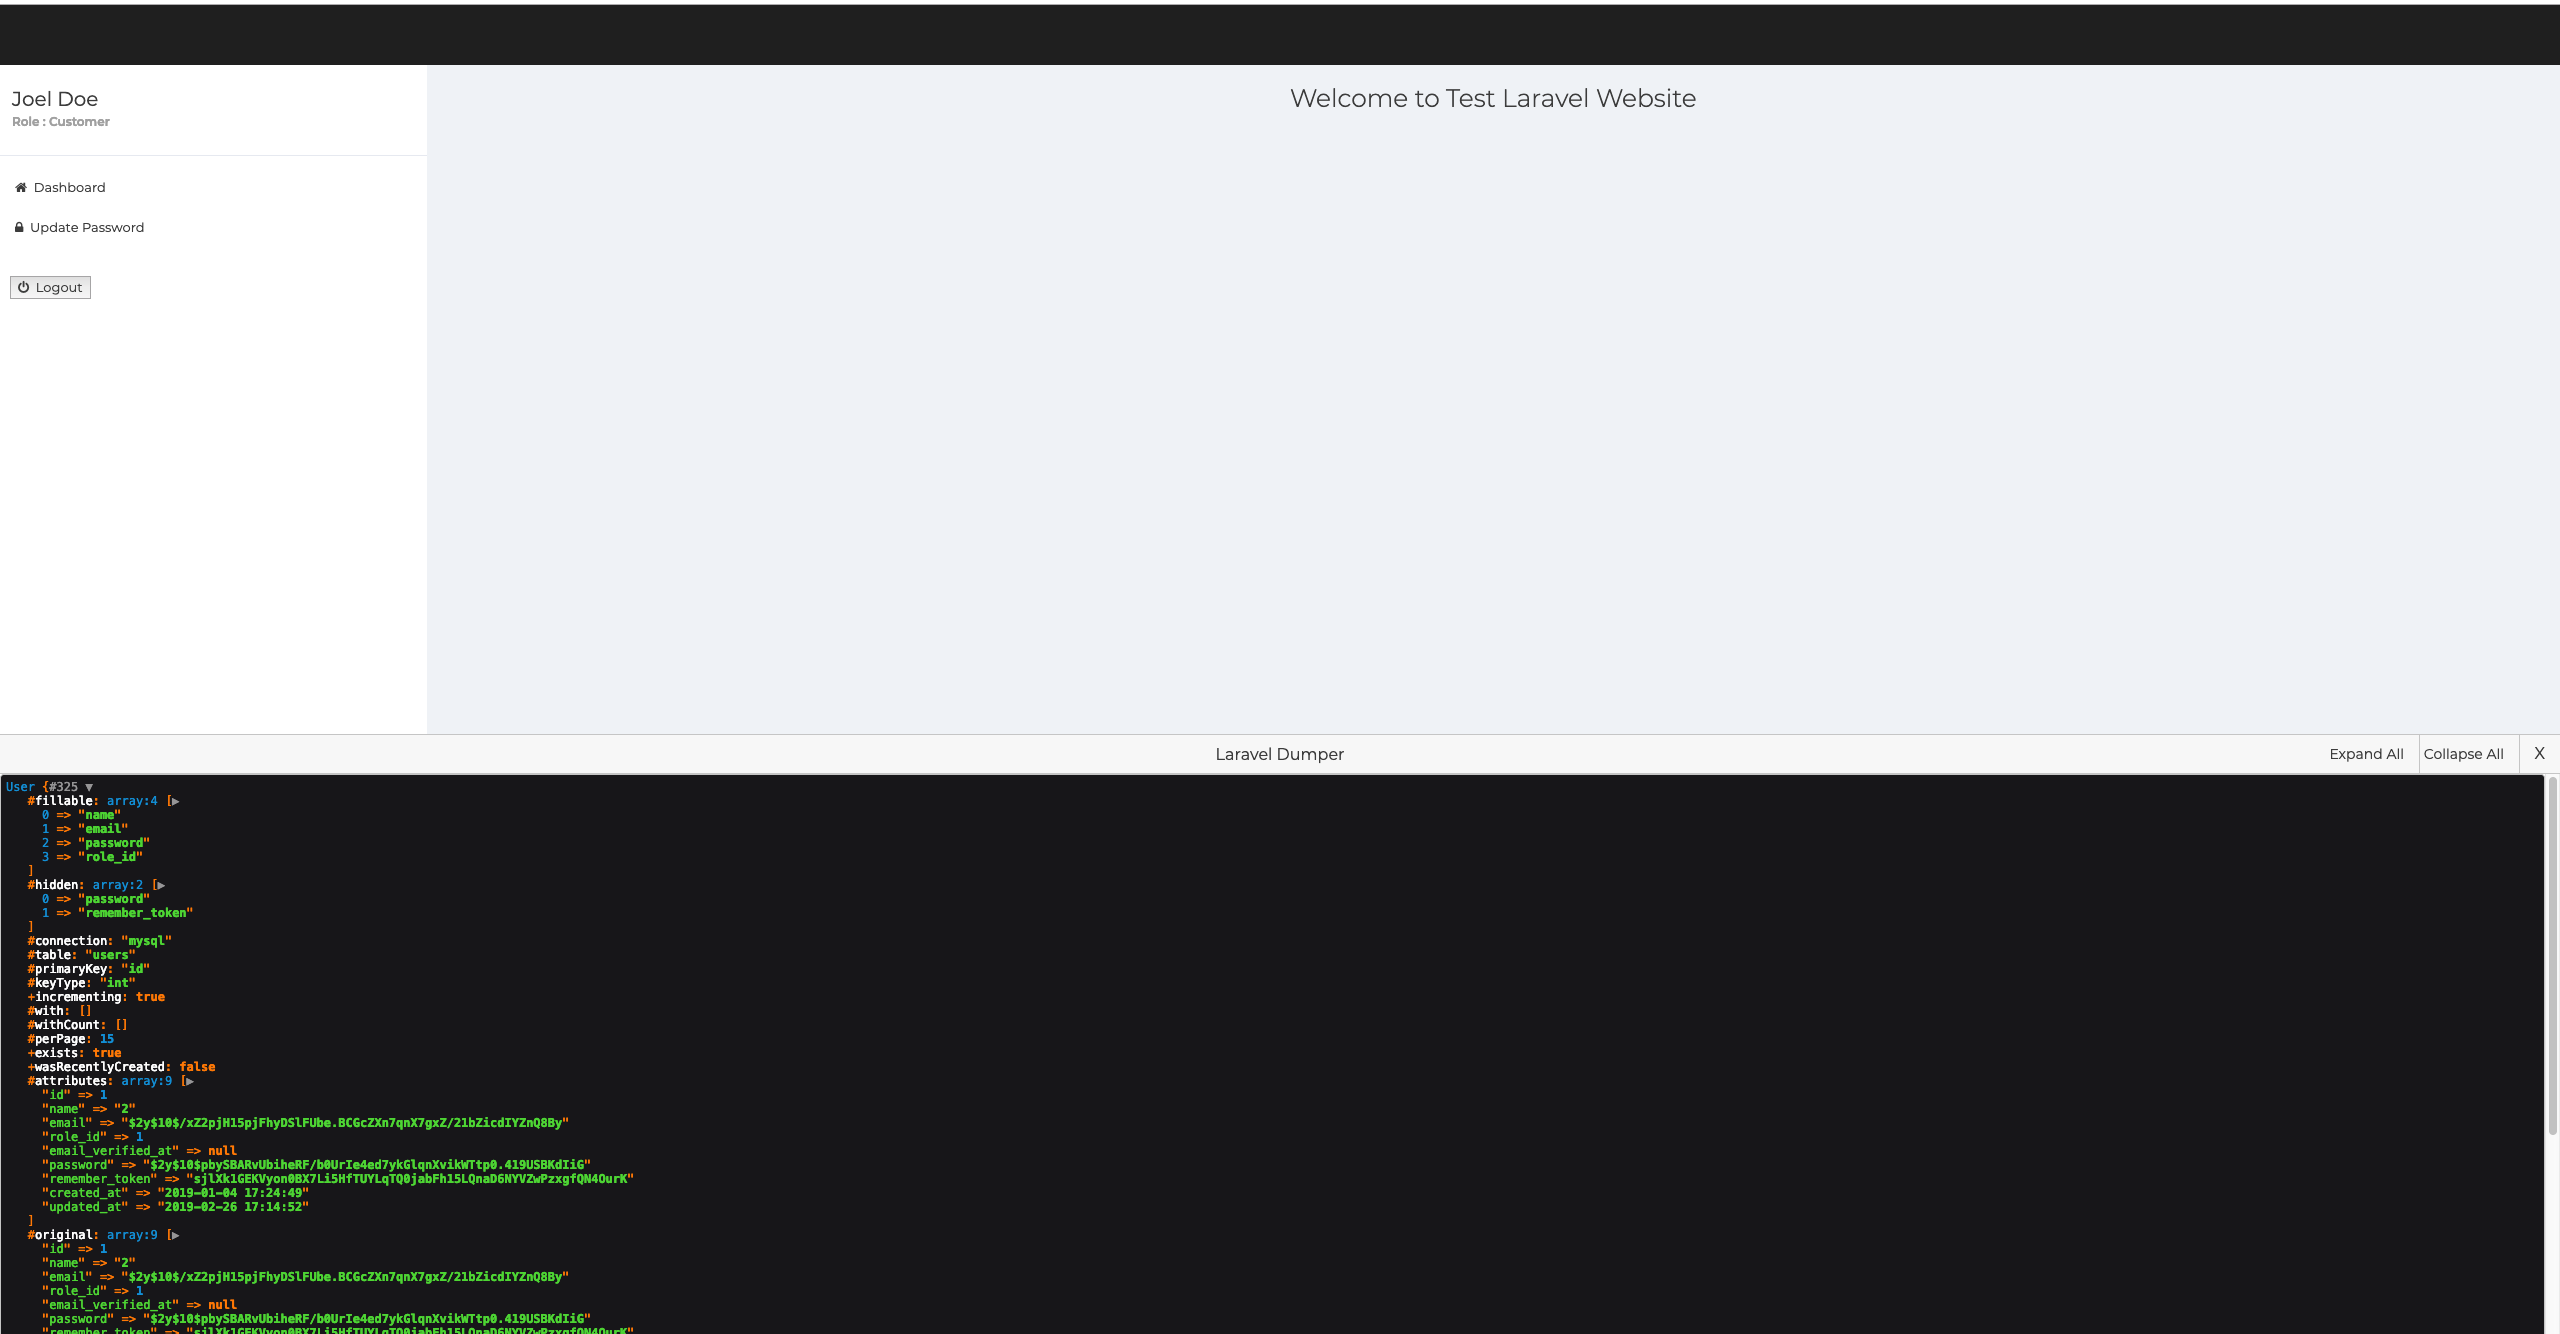
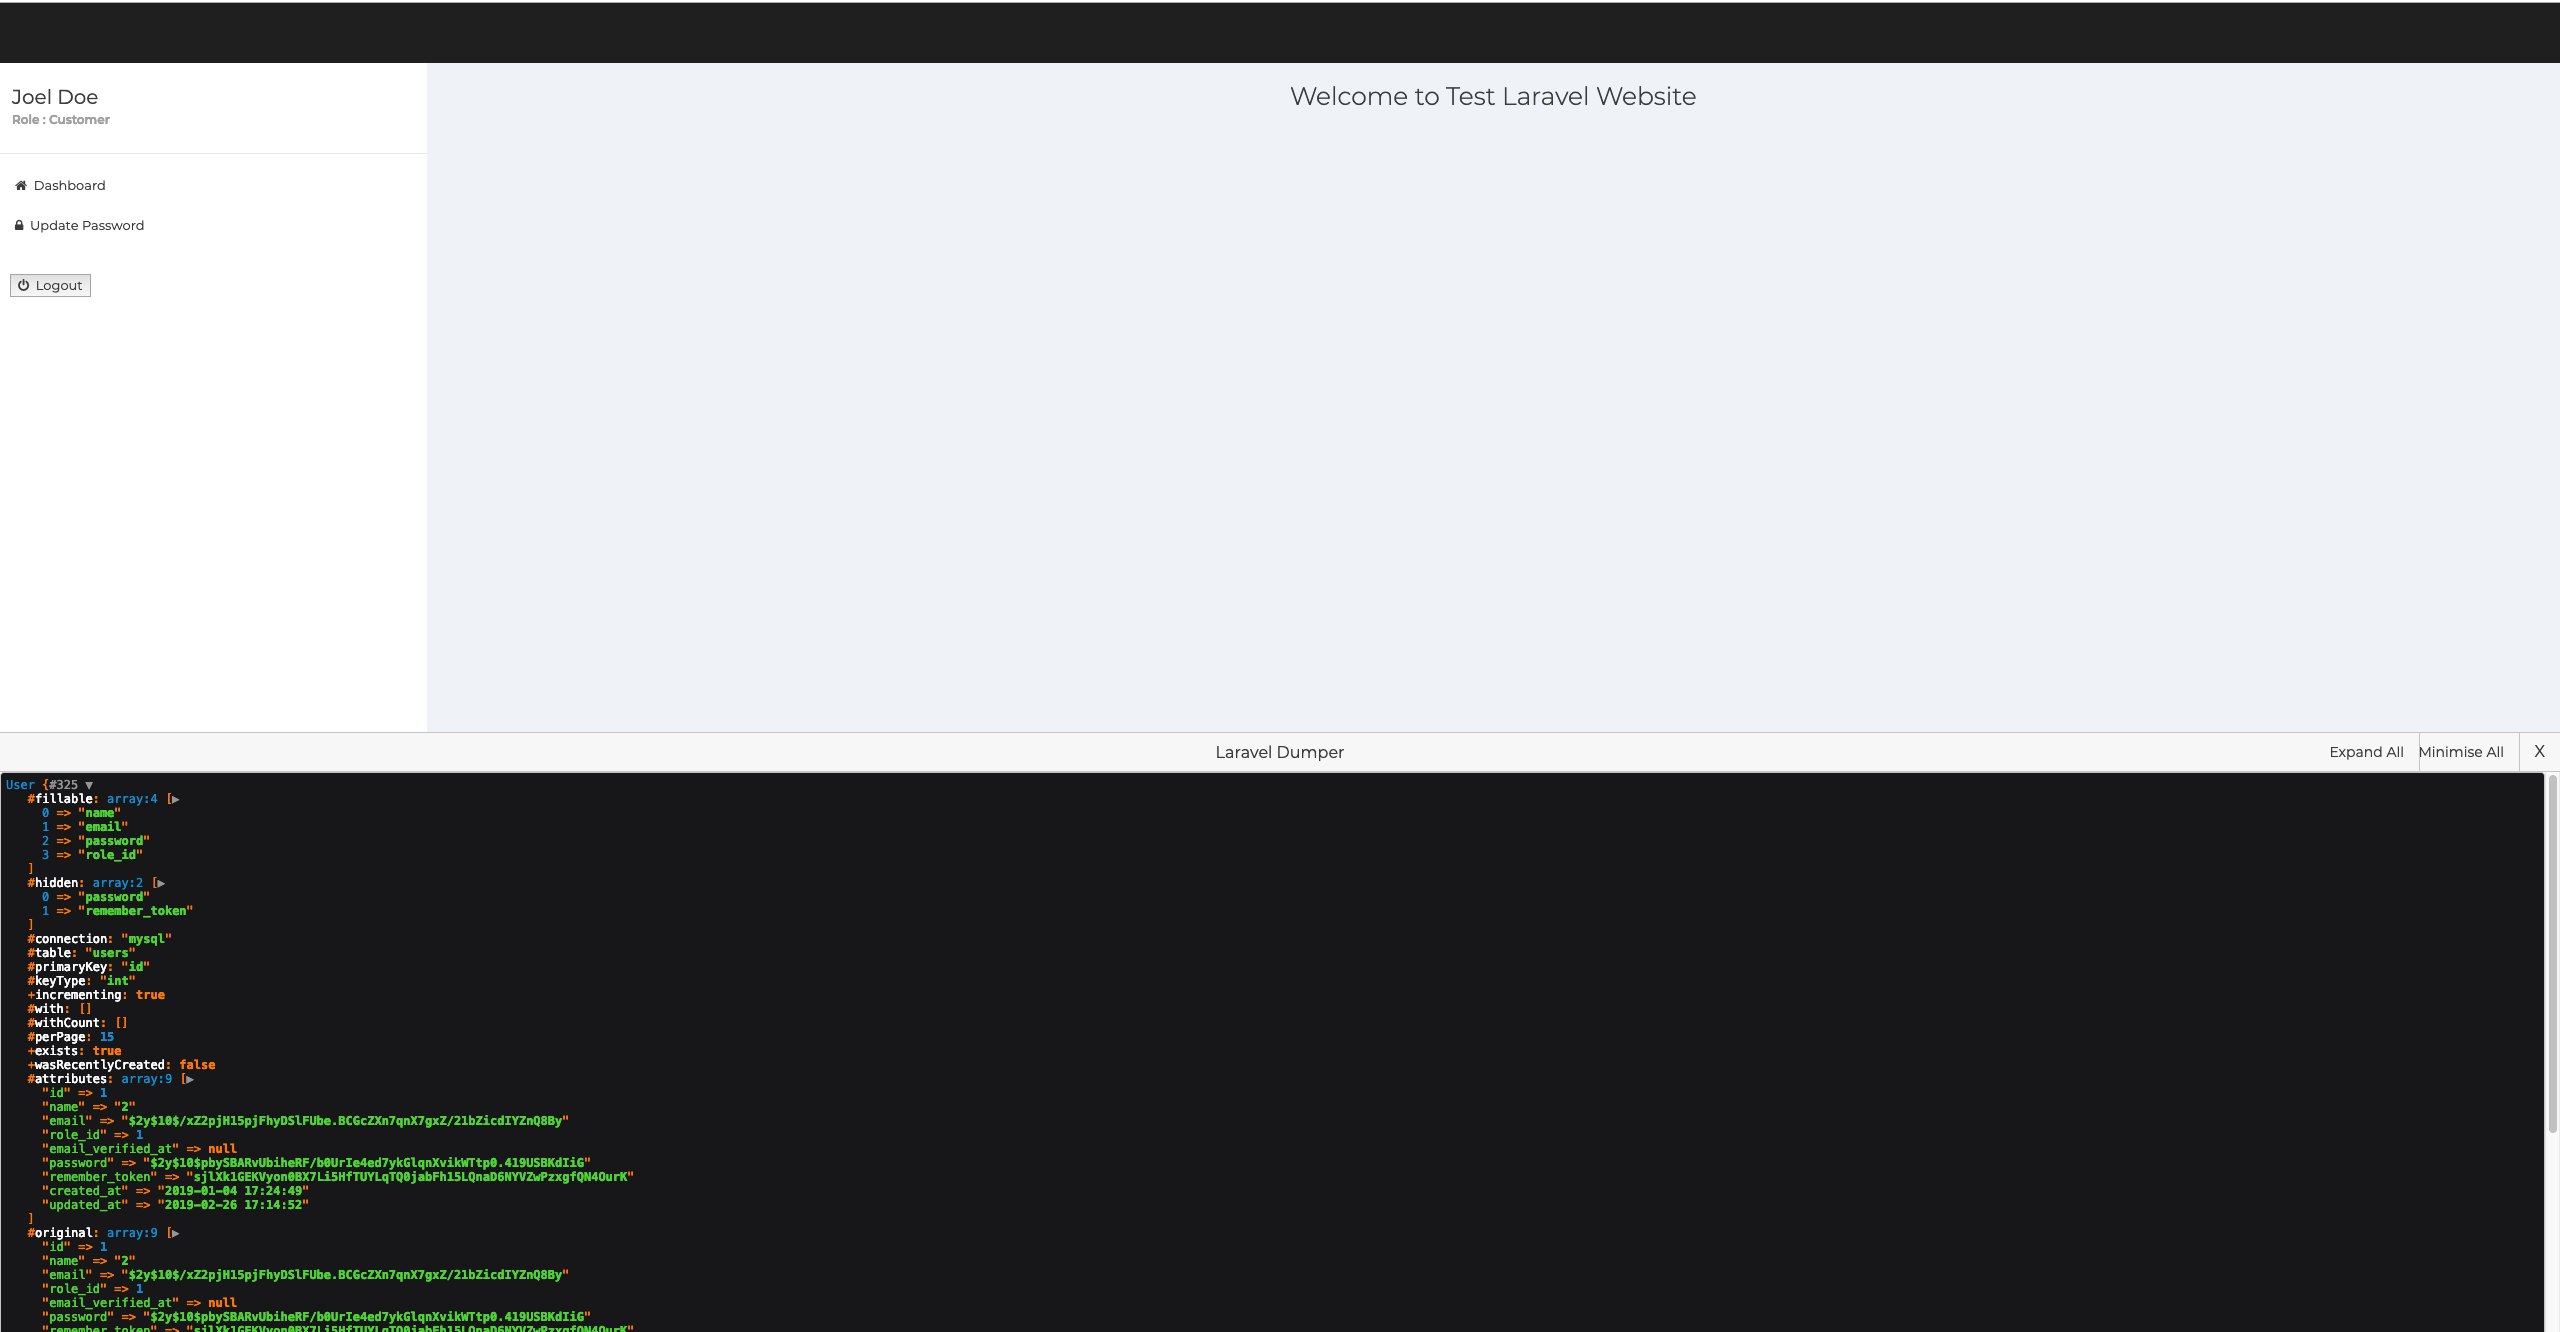
Upsating images and css

diff --git a/src/Techsemicolon/InspectorDumper.php b/src/Techsemicolon/InspectorDumper.php
@@ -312,7 +312,7 @@ pre.sf-dump a {
     position: absolute; right: 40px; top : 0; font-size: 14px; border-right: 1px solid #ccc; padding: 0 15px; cursor: pointer;
 }
 .ts_dumper_expand {
-    position: absolute; right: 140px; top: 0; font-size: 14px; border-right: 1px solid #ccc; padding: 0 15px; cursor: pointer;
+    position: absolute; right: 160px; top: 0; font-size: 14px; border-right: 1px solid #ccc; padding: 0 15px; cursor: pointer;
 }
 EOHTML;
 

diff --git a/README.md b/README.md
@@ -15,13 +15,13 @@ idump($user);
 This will make your page appear as it is and will add a button on top right to open the inspector like below : 
 
 <p align="center">
-    <img alt="Closed Laravel Dumper" src="images/Closed.png" width="500">
+    <img alt="Closed Laravel Dumper" src="images/Closed.png">
 </p>
 
 Once you click on `Open Laravel Dumper` button, it will open very clean and simple inspector window like below : 
 
 <p align="center">
-    <img alt="Closed Laravel Dumper" src="images/Opened.png" width="500">
+    <img alt="Closed Laravel Dumper" src="images/Opened.png">
 </p>
 
 You can have multiple dumps anywhere in your project. Those will be stacked inside the inspector one after another.
@@ -29,13 +29,13 @@ You can have multiple dumps anywhere in your project. Those will be stacked insi
 You can make use of `Minimise All` action to collapse all dumps like below :
 
 <p align="center">
-    <img alt="Closed Laravel Dumper" src="images/Minimised.png" width="500">
+    <img alt="Closed Laravel Dumper" src="images/Minimised.png">
 </p>
 
 You can make use of `Expand All` action to expand all dumps like below :
 
 <p align="center">
-    <img alt="Closed Laravel Dumper" src="images/Expanded.png" width="500">
+    <img alt="Closed Laravel Dumper" src="images/Expanded.png">
 </p>
 
 ## Wait.. There is more :
